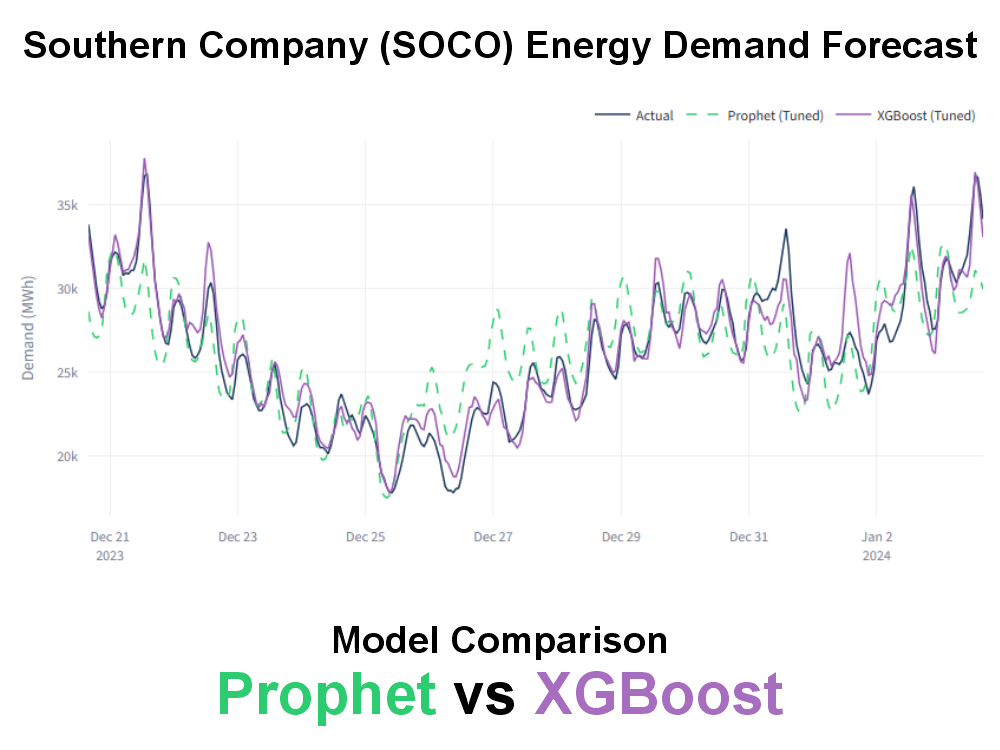
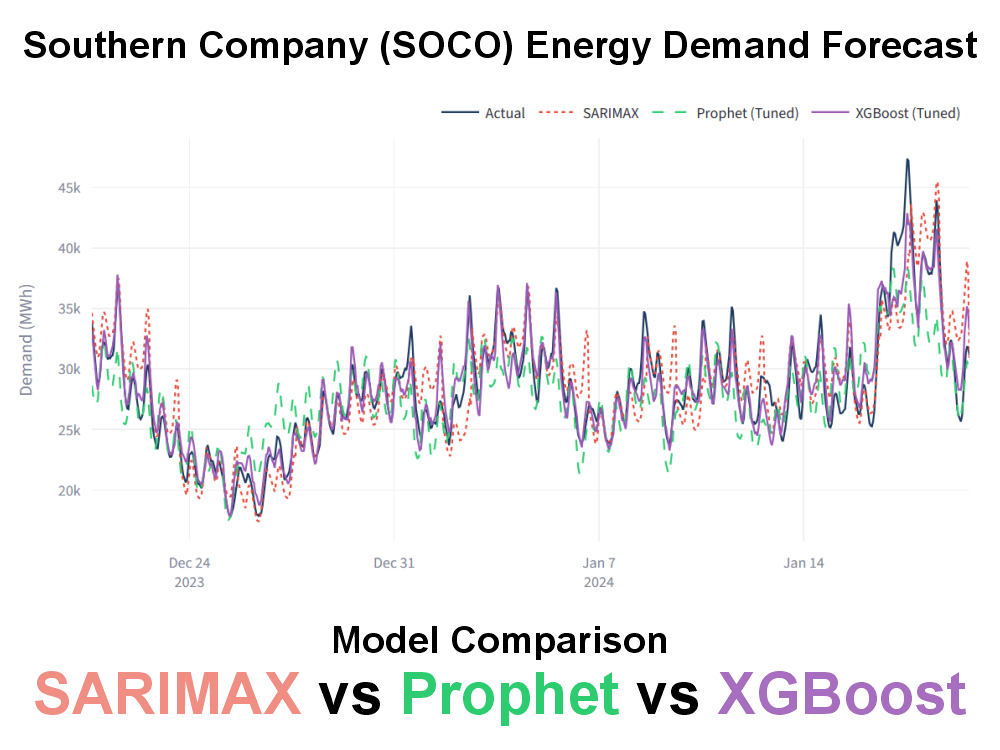
Update SOCO energy demand project

diff --git a/assets/projects/project-soco-energy-demand/project-soco-energy-demand.html b/assets/projects/project-soco-energy-demand/project-soco-energy-demand.html
@@ -232,12 +232,16 @@ title: "SOCO Energy Demand Forecasting | Husayn El Sharif"
             <!-- ===== Modeling ===== -->
             <section id="modeling" class="section">
                 <h2 class="section-title">Modeling Approach</h2>
-
+            
                 <div class="project-section-text">
                     <p>
-                        The modeling workflow compares classical forecasting baselines with a tuned gradient-boosted tree
-                        model. Prophet and SARIMAX establish interpretable time-series baselines, while XGBoost uses the
-                        engineered lag, rolling, weather, calendar, and interaction features in a supervised regression setup.
+                        The modeling workflow compares three approaches across the same 80/20 chronological test split.
+                        SARIMAX(1,1,1)(1,1,1,24) serves as the classical time-series baseline, evaluated with a rolling 24-hour
+                        horizon — forecasting one day ahead before re-anchoring to actual observations. Prophet (Tuned) provides an
+                        Optuna-optimized probabilistic baseline using built-in seasonality decomposition and 9 weather
+                        and calendar regressors. XGBoost uses the full set of engineered lag, rolling, weather, calendar, and
+                        interaction features in a supervised regression setup, exploiting tabular structure that the
+                        time-series models cannot access natively.
                     </p>
 
                     <ul class="project-bullets">
@@ -256,18 +260,18 @@ title: "SOCO Energy Demand Forecasting | Husayn El Sharif"
                 <div class="project-section-text">
                     <p>
                         The tuned XGBoost model is the final winner. It achieves <strong>RMSE = 1,147 MWh</strong> and
-                        <strong>MAPE = 2.90%</strong>, reducing RMSE by 71% compared with the SARIMAX baseline and
+                        <strong>MAPE = 2.90%</strong>, reducing RMSE by 37% compared with the SARIMAX baseline and
                         substantially outperforming the tuned Prophet model.
                     </p>
 
                     <div class="project-figure">
-                        <img src="/assets/projects/project-soco-energy-demand/predicted_vs_actual_demand_test_period_60days.png"
-                            alt="Predicted versus actual SOCO demand during the first 60 days of the test period" />
+                        <img src="/assets/projects/project-soco-energy-demand/predicted_vs_actual_demand_test_period_45days.png"
+                            alt="Predicted versus actual SOCO demand during the first 45 days of the test period" />
                     </div>
                 </div>
 
                 <div class="project-table-wrapper">
-                    <h3 class="project-subtitle">Final Model Comparison</h3>
+                    <h3 class="project-subtitle">Final Model Comparison (Full Test Set)</h3>
                     <table class="project-table">
                         <thead>
                             <tr>
@@ -284,20 +288,20 @@ title: "SOCO Energy Demand Forecasting | Husayn El Sharif"
                                 <td><strong>817</strong></td>
                                 <td><strong>1,147</strong></td>
                                 <td><strong>2.90%</strong></td>
-                                <td><strong>−71%</strong></td>
+                                <td><strong>−37%</strong></td>
                             </tr>
                             <tr>
                                 <td>Prophet (Tuned)</td>
                                 <td>1,494</td>
                                 <td>1,956</td>
                                 <td>5.42%</td>
-                                <td>−51%</td>
+                                <td>+6.1%</td>
                             </tr>
                             <tr>
                                 <td>SARIMAX(1,1,1)(1,0,1,24)</td>
-                                <td>3,268</td>
-                                <td>4,003</td>
-                                <td>13.52%</td>
+                                <td>1,305</td>
+                                <td>1,829</td>
+                                <td>4.8%</td>
                                 <td>—</td>
                             </tr>
                         </tbody>